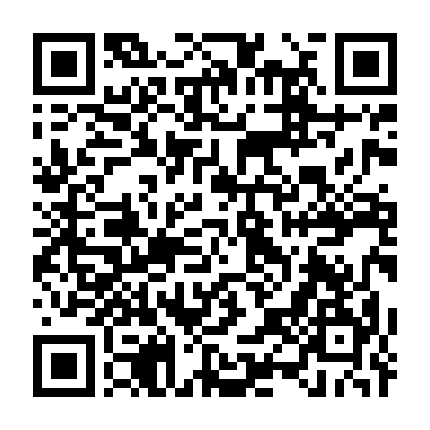
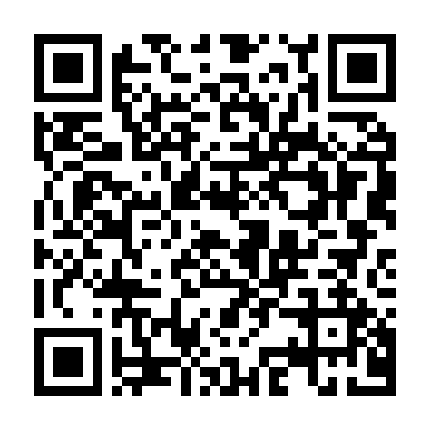
chore(brand): unify user-facing naming to 话本本 / huaben across app, APK, CNB, and GitHub

diff --git a/app/src/commonMain/kotlin/com/luna/storynote/update/AppUpdateManager.kt b/app/src/commonMain/kotlin/com/luna/storynote/update/AppUpdateManager.kt
@@ -14,7 +14,7 @@ object AppBuildInfo {
     const val VERSION_NAME = "1.2.0"
     const val VERSION_CODE = 6
     const val DEFAULT_MANIFEST_URL = "https://cnb.cool/lzb-prod/story-note-releases/-/git/raw/main/latest.json"
-    const val DEFAULT_GITHUB_REPO = "catoncat/story-note"
+    const val DEFAULT_GITHUB_REPO = "catoncat/huaben"
 }
 
 data class AppUpdateConfig(
@@ -131,7 +131,7 @@ class AppUpdateManager(
                 .url(url)
                 .header("Accept", "application/json")
                 .header("Cache-Control", "no-cache")
-                .header("User-Agent", "StoryNote/$currentVersion")
+                .header("User-Agent", "Huaben/$currentVersion")
                 .build()
             httpClient.newCall(req).execute().use { resp ->
                 if (!resp.isSuccessful) {
@@ -171,7 +171,7 @@ class AppUpdateManager(
             val builder = Request.Builder()
                 .url(apiUrl)
                 .header("Accept", "application/vnd.github+json")
-                .header("User-Agent", "StoryNote/$currentVersion")
+                .header("User-Agent", "Huaben/$currentVersion")
             val token = config.githubToken.trim()
             if (token.isNotEmpty()) {
                 builder.header("Authorization", "Bearer $token")
@@ -241,8 +241,8 @@ class AppUpdateManager(
     ): File {
         updatesDir.mkdirs()
         val safeVer = update.versionName.replace(Regex("[^0-9A-Za-z._-]"), "_")
-        val finalApk = File(updatesDir, "StoryNote-v$safeVer.apk")
-        val partFile = File(updatesDir, ".StoryNote-v$safeVer.apk.part")
+        val finalApk = File(updatesDir, "huaben-v$safeVer.apk")
+        val partFile = File(updatesDir, ".huaben-v$safeVer.apk.part")
         if (partFile.exists()) partFile.delete()
 
         val token = config.githubToken.trim()
@@ -251,7 +251,7 @@ class AppUpdateManager(
 
         val reqBuilder = Request.Builder()
             .url(targetUrl)
-            .header("User-Agent", "StoryNote/${AppBuildInfo.VERSION_NAME}")
+            .header("User-Agent", "Huaben/${AppBuildInfo.VERSION_NAME}")
         if (useApiAsset) {
             reqBuilder.header("Accept", "application/octet-stream")
             reqBuilder.header("Authorization", "Bearer $token")

diff --git a/app/src/commonMain/kotlin/com/luna/storynote/storage/BookExporter.kt b/app/src/commonMain/kotlin/com/luna/storynote/storage/BookExporter.kt
@@ -125,7 +125,7 @@ object BookExporter {
             appendLine("<!DOCTYPE html>")
             appendLine("<html lang=\"zh-CN\"><head><meta charset=\"UTF-8\">")
             appendLine("<meta name=\"viewport\" content=\"width=device-width, initial-scale=1.0\">")
-            appendLine("<title>$escapedTitle - 小作家故事本</title>")
+            appendLine("<title>$escapedTitle - 话本本</title>")
             appendLine("<style>")
             appendLine("body{margin:0;padding:28px 16px;background:#EFE9DC;color:#1F1A14;font-family:'Songti SC','Noto Serif CJK SC','STSong',serif;}")
             appendLine(".page{max-width:760px;margin:0 auto 28px;padding:42px 44px 32px;background:#FAF7F0;border:1px solid #DDD4C3;border-radius:16px;box-shadow:0 8px 24px rgba(31,26,20,.06);page-break-after:always;}")

diff --git a/app/src/desktopMain/kotlin/com/luna/storynote/MainDesktop.kt b/app/src/desktopMain/kotlin/com/luna/storynote/MainDesktop.kt
@@ -64,7 +64,7 @@ fun main(args: Array<String>) {
                 exitApplication()
             },
             state = windowState,
-            title = "小作家故事本",
+            title = "话本本",
             icon = windowIcon,
         ) {
             val uiState by controller.uiState.collectAsState()

diff --git a/README.md b/README.md
@@ -4,9 +4,9 @@
   <p><strong>开口讲出故事，不用打字成绘本。</strong></p>
   <p>按住说一句，纸页上长出拼音、留住童声，还能配水彩插画。</p>
   <p>
-    <a href="https://cnb.cool/lzb-prod/story-note-releases/-/git/raw/main/apk/StoryNote-latest.apk"><strong>下载 Android APK（国内直连）</strong></a>
+    <a href="https://cnb.cool/lzb-prod/story-note-releases/-/git/raw/main/apk/huaben-latest.apk"><strong>下载 Android APK（国内直连）</strong></a>
     &nbsp;·&nbsp;
-    <a href="https://github.com/catoncat/story-note/releases">更新记录</a>
+    <a href="https://github.com/catoncat/huaben/releases">更新记录</a>
   </p>
 </div>
 
@@ -49,8 +49,8 @@
 
 支持 **Android 8.0 及以上平板与手机**（装好后支持在家长设置里一键检查并覆盖更新）。
 
-- **国内直连最新版**：[StoryNote-latest.apk](https://cnb.cool/lzb-prod/story-note-releases/-/git/raw/main/apk/StoryNote-latest.apk)
-- **历史版本与校验值**：[GitHub Releases](https://github.com/catoncat/story-note/releases)
+- **国内直连最新版**：[huaben-latest.apk](https://cnb.cool/lzb-prod/story-note-releases/-/git/raw/main/apk/huaben-latest.apk)
+- **历史版本与校验值**：[GitHub Releases](https://github.com/catoncat/huaben/releases)
 
 <p>
   <img src="website/assets/qr-apk.png" alt="手机扫码直接下载话本本 APK" width="140" />
